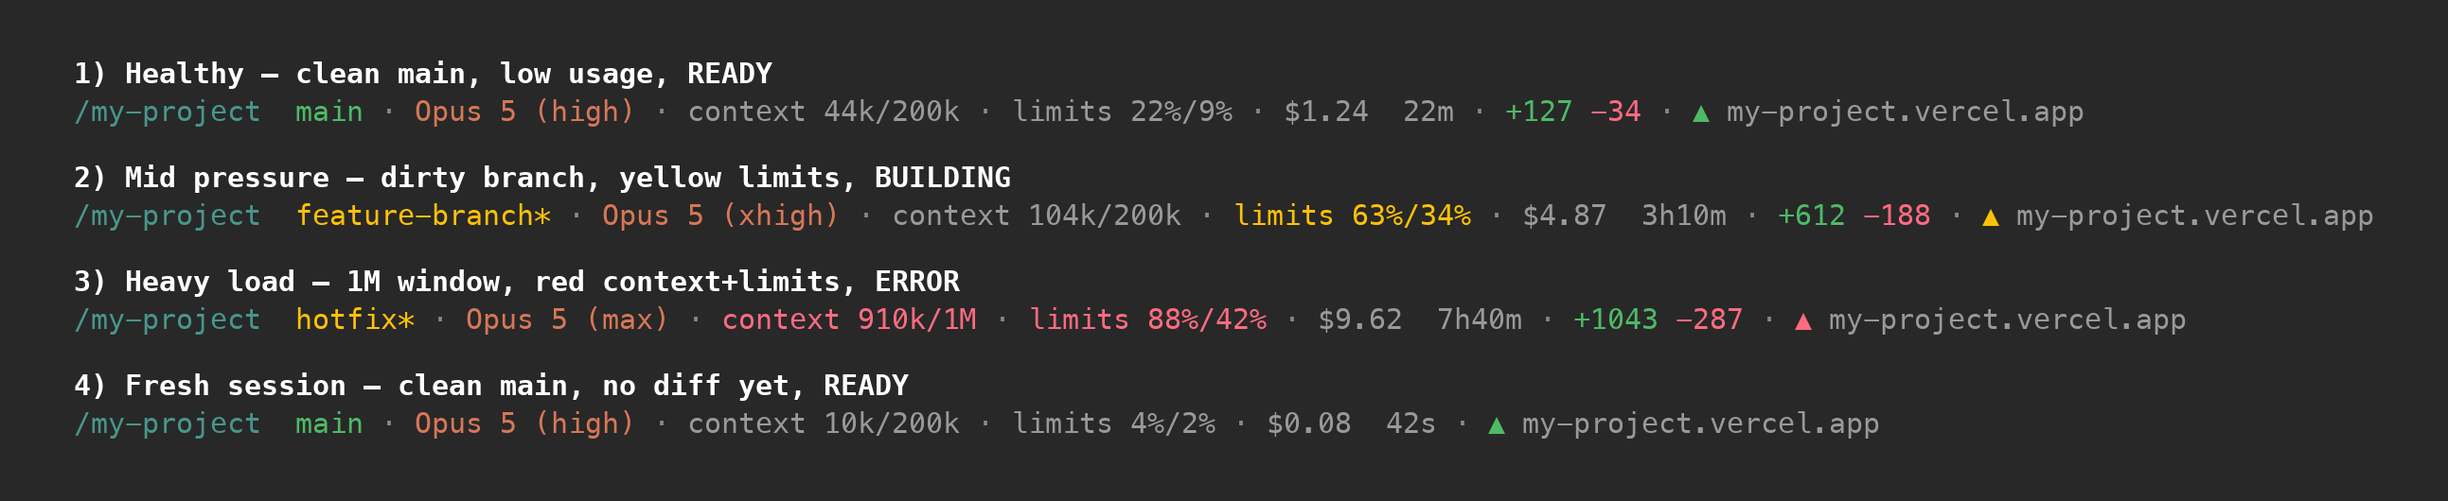
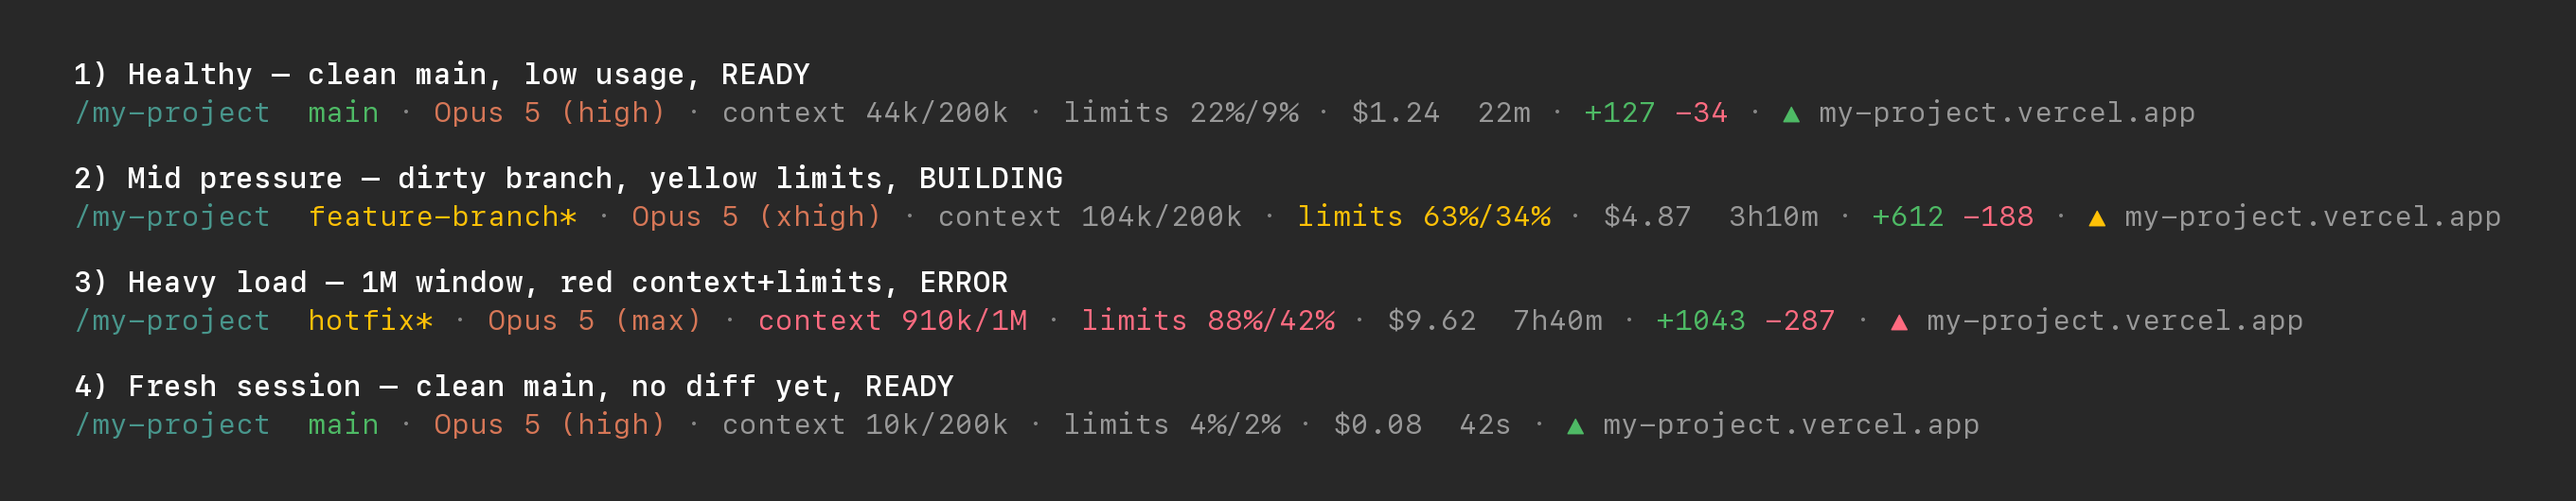
Tighten the README and give theming its own section
The Features list had drifted into doubling as a spec: bullets ranged from
68 to 461 characters, with two carrying six times the weight of the rest.
Each is now a single line, and the detail moved to where a reader meets the
symptom rather than being deleted — threshold defaults next to the
threshold row in Customizing; effort-less models, ultracode reading as
xhigh, and the `context 28%` fallback into Troubleshooting.

Adds a Theme section documenting the three-step resolution order, the
settings precedence, and why `auto` lands on dark. That rule existed only
in the code until now.

Regenerates docs/preview.png in SF Mono against the current palette.

diff --git a/README.md b/README.md
@@ -12,22 +12,21 @@ Plain-text rendering of one scenario:
 
 ## Features
 
-- **Path + branch** — teal `/dir` and green branch name; branch turns amber with a `*` when there are uncommitted changes
-- **Model + effort** — `Opus 5 (xhigh)`: the model actually driving the session and its current effort level, in flat orange. Effort tracks `/effort` live rather than the persisted default, and the parenthetical drops off on models that don't support effort (Haiku 4.5, Sonnet 4.5, Opus 4.1 and older). Note that ultracode sessions report as `xhigh` — Claude Code normalizes ultracode to xhigh before the statusline sees it, so the two are indistinguishable
-- **Context window** — `280k/1M`: tokens used out of the window size, so you read the absolute burn and the fraction at once. The numerator is the same figure Claude Code divides to get its own percentage (`input + cache_creation + cache_read`), so the two never disagree. Colored by that percentage — yellow at ≥70%, red at ≥85% — and falls back to a bare `context 28%` if either figure is missing from the payload
-- **Plan rate limits** — `limits 5h%/7d%` from Claude Code's gateway, color-coded by the higher of the two (gray <50%, yellow <80%, red ≥80%)
+- **Path + branch** — `/dir` in teal, branch in green; amber with a `*` when the tree is dirty
+- **Model + effort** — `Opus 5 (xhigh)`: what is actually driving the session, following `/effort` live rather than the saved default
+- **Context window** — `280k/1M`: tokens used out of the window size, using the same figure Claude Code's own percentage divides
+- **Plan rate limits** — `limits 5h%/7d%`, colored by the higher of the two
 - **Session cost** — theoretical API price for the current session
 - **Session duration** — wall-clock time the assistant has been working
-- **Session diff** — `+N -N` lines added (green) / removed (red); auto-hides on a fresh session
-- **Cluster separators** — `·` dots in Claude Code's `promptBorder` gray group segments into identity / engine / context / limits / metrics / diff / deployment; separators only appear between clusters that have content
-- **Vercel deployment triangle** *(optional)* — `▲` colored by the latest deployment state for the current branch: yellow=BUILDING, green=READY, red=ERROR. Updated in near-real-time via webhook → ntfy.sh → local subscriber, with bounded polling to fill the gap left by `deployment.ready` requiring an integration.
-
+- **Session diff** — `+N -N` lines added / removed; auto-hides on a fresh session
+- **Vercel deployment triangle** *(optional)* — `▲` colored by the latest deployment state for the current branch
+- **Matches your Claude Code theme** — see [Theme](#theme)
 ## Requirements
 
 - macOS (Intel or Apple Silicon). Linux/Windows ports welcome via PR.
 - Claude Code CLI
 - `python3` on `$PATH` (ships with recent macOS)
-- A terminal with 24-bit color (Ghostty, iTerm2, Terminal.app, WezTerm, Kitty, VS Code). Colors are hardcoded truecolor values rather than ANSI codes, so they don't follow your terminal theme
+- 24-bit color support (any modern terminal, or the Claude Code desktop app) — the palettes are truecolor values, not ANSI indices
 - For the optional Vercel dot:
   - [Vercel CLI](https://vercel.com/docs/cli) (`npm i -g vercel`)
   - A Vercel account with at least one linked project
@@ -43,12 +42,33 @@ cd claude-statusline
 The installer:
 1. Copies `lib/statusline.sh` → `~/.claude/statusline.sh`
 2. Adds a `statusLine` block to `~/.claude/settings.json` (existing file is backed up to `.bak`)
-3. Asks whether to set up the Vercel dot. If yes:
+3. Offers to pin your theme, if it's set to `auto` and your terminal turns out to be light — see [Theme](#theme)
+4. Asks whether to set up the Vercel dot. If yes:
    - Generates a random ntfy.sh topic (acts as a shared secret)
    - Creates a Vercel webhook subscribed to `deployment.created`, `deployment.canceled`, `deployment.error`
    - Installs a launchd agent that streams events from ntfy.sh and writes deployment state to `/tmp` cache files
 
 Restart Claude Code (or run `/config`) after installing to pick up the new statusline.
+
+## Theme
+
+The statusline reads the same `theme` key that `/theme` writes, and both of its palettes are lifted from Claude Code's own theme tables — so it paints itself the colors the interface above it is using.
+
+It resolves the theme in three steps, stopping at the first that answers:
+
+1. **An explicit theme in `settings.json`** — anything starting `light` → light palette, anything starting `dark` → dark palette. The colorblind-friendly and ANSI variants fold into their families
+2. **`COLORFGBG`**, if your terminal exports it (Konsole, rxvt, iTerm2 with the option on) — parsed the way Claude Code parses it
+3. **Otherwise dark**
+
+Settings are read in Claude Code's own precedence order — `~/.claude/settings.json`, then `settings.local.json`, then the same pair inside the project directory — and the last file naming a theme wins. Changes take effect on the next render; there is nothing to restart, because the script is re-executed every time.
+
+### Why `auto` lands on dark
+
+Claude Code resolves `auto` by asking the terminal for its background over OSC 11, then holds the answer in memory. It never reaches disk and it is not in the data handed to the statusline. The statusline cannot repeat the query either: it runs while Claude Code holds the tty in raw mode, so the terminal's reply would arrive in Claude Code's input stream rather than here.
+
+So on `auto` it falls back exactly as Claude Code does when nothing answers — `COLORFGBG`, else dark. On a light terminal that means a dark statusline under a light interface.
+
+**Fix:** pick "Light mode" in `/theme`. `install.sh` also catches this, since it runs before any TUI holds the tty and can therefore ask the terminal safely: finding `auto` plus a light background, it offers to set the theme for you. It stores nothing of its own — a cached background would go stale the moment you switched terminal profile, and would describe the terminal you installed from rather than the one you work in.
 
 ## Uninstall
 
@@ -82,8 +102,9 @@ Open `~/.claude/statusline.sh` and edit. Common changes:
 
 | Change | Where |
 |---|---|
-| Color thresholds | `if [ "$ctx_used" -ge 85 ]` / `if [ "$hi" -ge 80 ]` (context uses ≥, lower = healthier) |
-| Colors themselves | The `# --- palette ---` block near the top — every segment references `$c_claude`, `$c_success`, `$c_error`, `$c_warning`, `$c_inactive`, `$c_border`, `$c_plan`. Light-theme values are commented alongside each |
+| Color thresholds | `if [ "$ctx_used" -ge 85 ]` / `if [ "$hi" -ge 80 ]`. Defaults: context turns yellow at ≥70% and red at ≥85%; limits turn yellow at ≥50% and red at ≥80%, keyed on the higher of the two |
+| Colors themselves | The `# --- palette ---` block near the top — two branches, one per theme, each defining `$c_claude`, `$c_success`, `$c_error`, `$c_warning`, `$c_inactive`, `$c_border`, `$c_plan`. Edit the branch for the theme you use, or both |
+| Theme detection | The `resolve_theme()` function in the `python3` block — mirrors Claude Code's own precedence (explicit setting → `COLORFGBG` → dark). Hardcode a return value to pin one theme |
 | Cluster grouping | The bottom of the script: `identity`, `engine`, `context`, `limits`, `metrics`, `diff`, `deploy` variables — move a `$..._str` into a different cluster, or add/remove a cluster line |
 | Effort as words vs. a meter | The `case "$effort"` block in the engine segment — swap the parenthesised words for glyphs. If you use glyphs, keep them within one East Asian Width class or the segment shifts column between levels |
 | Separator character | The `sep=` line near the bottom: change `·` to `│`, `▸`, `—`, etc. |
@@ -107,7 +128,10 @@ then inspect with `python3 -m json.tool < /tmp/last-input.json`.
 | Vercel dot never appears | `cat /tmp/claude-vercel-subscriber.log` — daemon running? Webhook firing? Topic correct? |
 | Dot stuck on BUILDING | Vercel auth token expired. Run `vercel login`. |
 | `limits` segment missing | You're on an older Claude Code version that doesn't expose `rate_limits`. Upgrade. |
-| Colors washed out on a light background | The palette ships with Claude Code's dark-theme values. Swap in the light values commented beside each entry in the `# --- palette ---` block. |
+| No `(effort)` after the model | That model doesn't support effort — Haiku 4.5, Sonnet 4.5, Opus 4.1 and older. Claude Code omits the field entirely and the parenthetical drops out. |
+| An ultracode session shows `(xhigh)` | Correct, and unavoidable: Claude Code normalizes ultracode to `xhigh` before the statusline sees it, so the two are indistinguishable here. |
+| Context reads `28%` instead of `280k/1M` | The payload was missing `total_input_tokens` or `context_window_size`; the statusline falls back to the bare percentage rather than inventing a number. |
+| Colors don't match your theme | The script reads `theme` from `settings.json` (user, then project, then their `.local` variants). Check with `python3 -c "import json;print(json.load(open('$HOME/.claude/settings.json')).get('theme'))"`. If it's `auto`, it resolves to dark unless `COLORFGBG` says otherwise — set `theme` explicitly via `/config` to pin it. |
 | Colors ignored entirely | Terminal lacks 24-bit color. Check with `printf '\\033[38;2;215;119;87mtest\\033[0m\\n'` — if that isn't orange, replace the `38;2;R;G;B` codes with basic ANSI (`31`–`37`, `90`). |
 
 ## License
